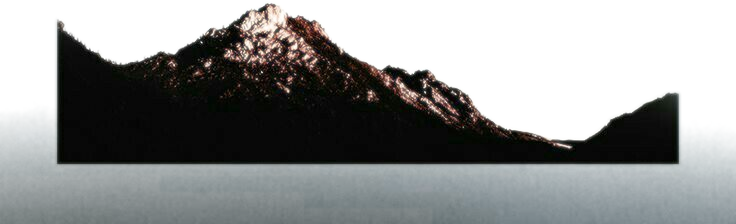
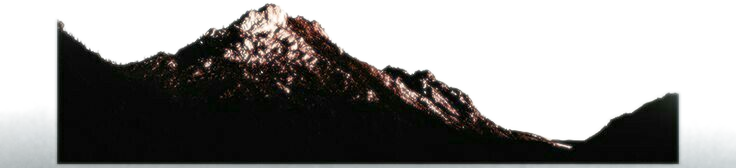
Remove the double-gradient band: re-crop assets, drop CSS overlay
Root cause of the visible rectangular "stripe"/double-background: the
provided PNGs carry a leftover semi-transparent sky-gradient band at
one edge (top of rock-top.png, bottom of rock-bottom.png) baked in
from the original reference crop, on top of which I was layering a
SEPARATE CSS .rock-glow gradient - two independent fades, with
different color curves, stacked and visible as a seam where they
didn't quite line up (confirmed by sampling alpha down each image's
height at five x-positions).

Fix: re-crop both PNGs to drop that leftover band, keeping only the
rock silhouette and its own natural alpha fade to full transparency.
Removed the .rock-glow div/CSS entirely - the image's single built-in
fade is now the only "smoke" effect, blending into whatever's behind
it (hero's own gradient above, About's cream, Founder's dark) with no
second overlay to go out of sync. Grew the seam height to roughly
match the assets' native aspect ratio so cover-cropping no longer eats
into the fade tail, and re-verified no CTA-button overlap across five
viewport sizes including the 600px width that showed the bug.
Claude-Session: https://claude.ai/code/session_01EEbhZ174tMksa6rXkSC9PV

diff --git a/css/style.css b/css/style.css
@@ -132,28 +132,22 @@ img.ph-bg{ position:absolute; inset:0; width:100%; height:100%; object-fit:cover
   #hero .hero-bridge{ display:none; }
 }
 
-/* ===== СКАЛА-ШОВ: реальное фото-референс (не вектор), используется дважды — прямо и зеркально ===== */
+/* ===== СКАЛА-ШОВ: реальное фото-референс (не вектор), используется дважды — прямо и зеркально =====
+   Ассеты уже обрезаны до скалы + её собственного плавного затухания в прозрачность (без "мусорного"
+   полупрозрачного неба по краю) — никакой отдельной CSS-дымки поверх не накладываем, только фильтр цвета. */
 .rock-seam{
   position:relative; z-index:1; width:100%; overflow:hidden; pointer-events:none;
-  height:clamp(130px, 15vw, 210px);
-  margin-top:clamp(-140px, -9vw, -95px);
+  height:clamp(140px, 23vw, 260px);
+  margin-top:clamp(-120px, -11vw, -85px);
 }
 .rock-seam.bottom{ z-index:3; }
 .rock-seam .rock-img{
-  position:absolute; inset:0; display:block; width:100%; height:100%; object-fit:cover; object-position:center;
+  position:absolute; inset:0; display:block; width:100%; height:100%; object-fit:cover; object-position:top;
   filter:sepia(.45) saturate(1.5) hue-rotate(-12deg) brightness(.92) contrast(1.05);
 }
-/* верхний ассет: скала сверху, дымка проявляется книзу до крема */
-.rock-seam .rock-glow{
-  position:absolute; inset:0;
-  background:linear-gradient(180deg, rgba(237,230,214,0) 0%, rgba(201,138,59,.14) 45%, rgba(237,230,214,.35) 68%, var(--cream) 97%);
-}
-/* нижний (зеркальный) ассет: скала снизу, дымка проявляется кверху до крема */
-.rock-seam.bottom .rock-glow{
-  background:linear-gradient(180deg, var(--cream) 3%, rgba(237,230,214,.35) 32%, rgba(201,138,59,.14) 55%, rgba(237,230,214,0) 100%);
-}
+.rock-seam.bottom .rock-img{ object-position:bottom; }
 @media (max-width:760px){
-  .rock-seam{ height:clamp(160px, 32vw, 220px); margin-top:clamp(-110px, -15vw, -75px); }
+  .rock-seam{ height:clamp(150px, 40vw, 220px); margin-top:clamp(-100px, -18vw, -70px); }
 }
 
 /* ===== ABOUT — история в фотографиях, без большого фото ===== */

diff --git a/index.html b/index.html
@@ -56,7 +56,6 @@
 <!-- О МЕСТЕ — переход скалой из референс-фото -->
 <div class="rock-seam" aria-hidden="true">
   <img class="rock-img" src="assets/images/rock-top.png" alt="">
-  <div class="rock-glow"></div>
 </div>
 <section id="about">
   <div class="inner">
@@ -99,7 +98,6 @@
 <!-- ИСТОРИЯ И ОСНОВАТЕЛЬ — та же скала, отражённая по вертикали -->
 <div class="rock-seam bottom" aria-hidden="true">
   <img class="rock-img" src="assets/images/rock-bottom.png" alt="">
-  <div class="rock-glow"></div>
 </div>
 <section id="founder">
   <div class="f-media">
